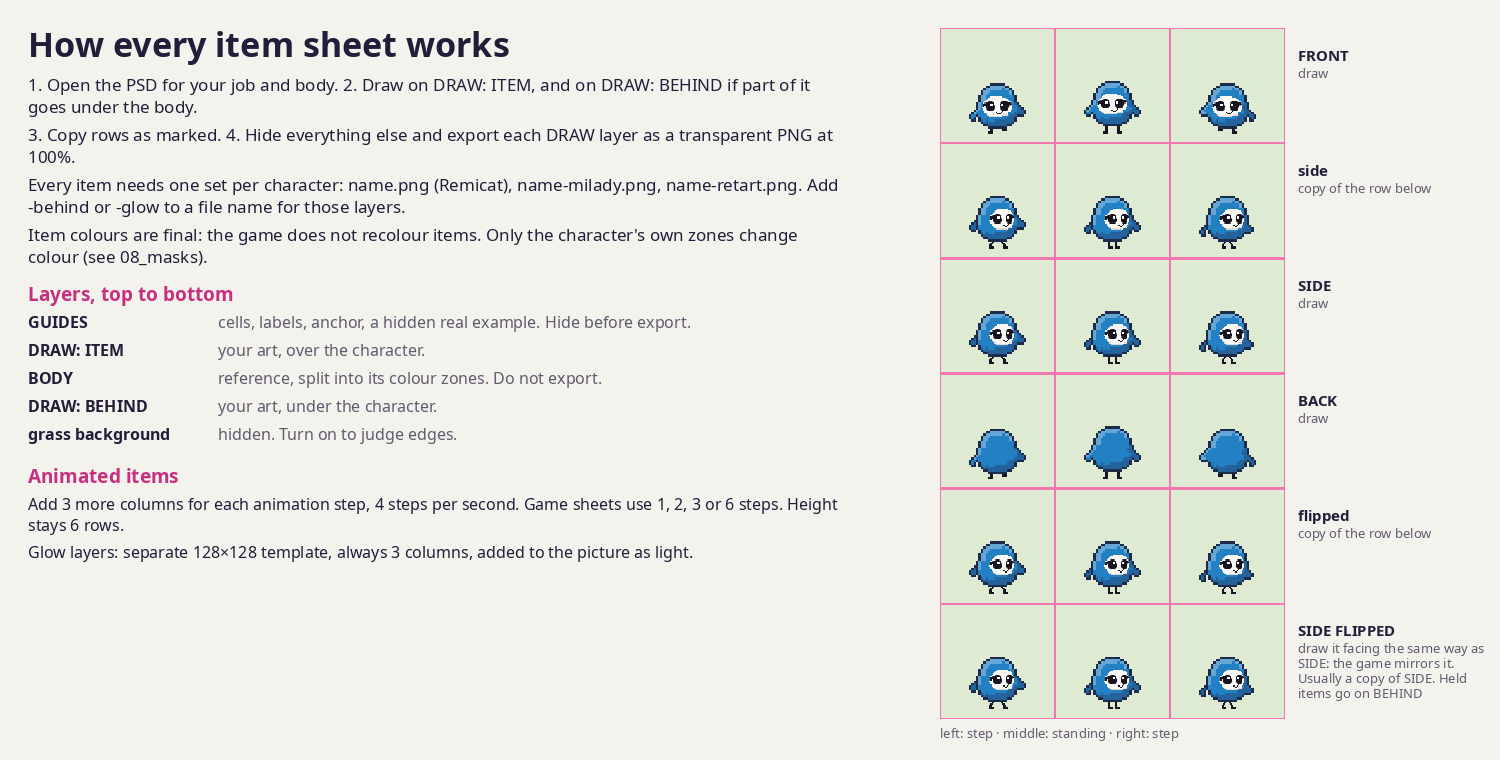
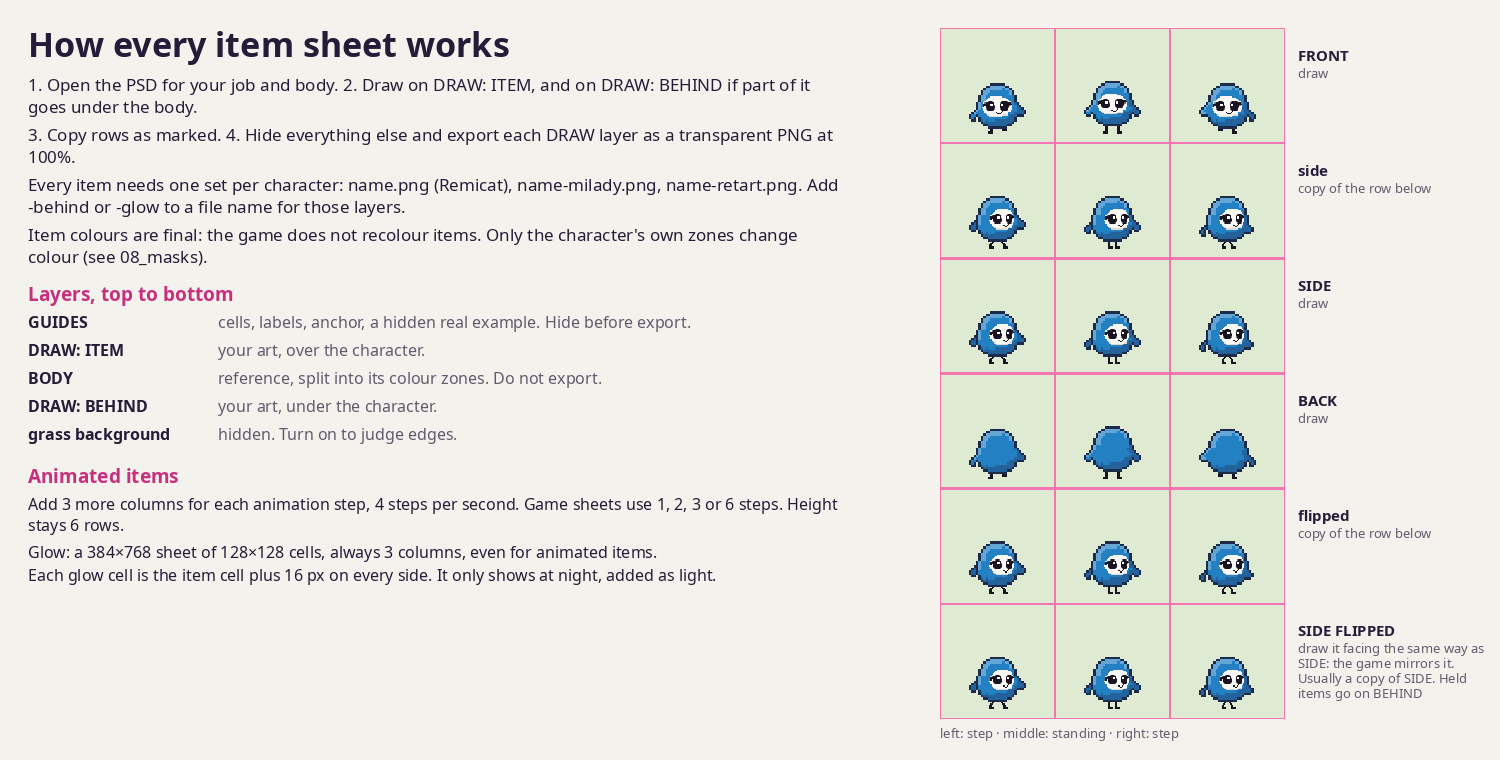
Artist guide: exact sizes, rows, anchor and submit steps
START_HERE.md now says what each row and column is (rows 1 and 4 are
never read, row 5 is drawn facing right and mirrored), where the body
and anchor sit in a 96 and a 128 cell, how glow behaves, how missing
character versions fall back, the vehicle, trail and toy frame sizes,
a check list, common mistakes and how to send art.

Guide 01: the glow line now gives the sheet size, the 16 px border and
that glow only shows at night. Guide 06: costumes do not switch off the
player's colours; they go in the shirt slot and a hat sits on top.

Changed region(s): [[0.0307, 0.6961, 0.46, 0.7868]]

diff --git a/artist-templates/START_HERE.md b/artist-templates/START_HERE.md
@@ -1,50 +1,122 @@
 # Layer 777: artist pack
 
-Everything here comes from the live game, dumped on 2026-11-06. Sprites are drawn at 100%, no scaling.
+Everything in this folder comes from the live game, taken on 2026-11-06. The library sheets are the exact files the game loads, and the templates line the body up exactly where the game draws it. Art is drawn at 100%: one pixel in your file is one pixel of the game world, so never scale a sheet up or down.
 
 ## What are you making?
 
 | You want to draw | Read | Open |
 |---|---|---|
-| Anything | `guides/01_how_item_sheets_work.png` | |
+| Anything (read this first) | `guides/01_how_item_sheets_work.png` | |
 | Hat or headwear | `guides/02_hat.png` | `templates/hat/` |
-| Backpack, wings, cape | `guides/03_back.png` | `templates/back/` |
-| Item held in hand | `guides/04_hold.png` | `templates/hold/` |
+| Backpack, wings, cape, tail | `guides/03_back.png` | `templates/back/` |
+| Item held in the hand | `guides/04_hold.png` | `templates/hold/` |
 | Clothes with drawn details | `guides/05_clothes.png` | `templates/clothes/` |
 | Whole-body costume | `guides/06_costume.png` | `templates/costume/` |
 | Plain shirt, colours only | `guides/07_shirt_colours.png` | `templates/shirt-colours/` |
 | New character | `guides/08_masks.png`, `guides/09_new_character.png` | `templates/new-character/` |
 | Light effect on an item | `guides/01_how_item_sheets_work.png` | `templates/glow/` |
-| Remicat smooth-animation clothes (optional) | `guides/10_rig.png` | `templates/rig/` |
+| Remicat smooth animation for clothes (optional) | `guides/10_rig.png` | `templates/rig/` |
 
-Each template has one layered `.psd` and one flat `.png` per character. They open in Photoshop, Krita, GIMP and Photopea. If you use another editor, put the flat PNG on a bottom layer.
+Each item folder has one layered `.psd` and one flat `.png` per character, named like `remicat-hat.psd` and `remicat-hat.png`. They open in Photoshop, Krita, GIMP and Photopea. If your editor cannot read PSDs, put the flat PNG on a bottom layer, draw above it, and hide it before you export. `templates/blank/` has empty sheets in the three sizes if you want to start from nothing.
 
-## Quick rules
+The hat, back, hold, clothes and costume PSDs hide a real game item in their GUIDES group. Turn it on to compare size and position, then turn it off again.
 
-1. Each item is 3 sets of art: Remicat, Milady, Retart.
-2. Sheet is 288×576: 3 columns, 6 rows of 96×96 cells.
-3. Draw only on `DRAW` layers. Hide everything else before export.
-4. Export transparent PNG at the original size, one file per `DRAW` layer that has art.
-5. Item colours are final. Only characters have masks.
+## The item sheet
+
+Every worn item is a sheet of **288×576** pixels: 3 columns and 6 rows of **96×96** cells.
+
+**Rows** are the directions:
+
+| Row | View | Used by the game |
+|---|---|---|
+| 0 | Front, facing down | yes |
+| 1 | Side | no, never read. Copy row 2 here to keep it tidy |
+| 2 | Side, facing right | yes |
+| 3 | Back, facing up | yes |
+| 4 | Side, flipped | no, never read. Copy row 5 here |
+| 5 | Side for walking left | yes |
+
+Row 5 is used when the character faces left. Draw it facing **right**, just like row 2, because the game mirrors the whole row. It exists so that a part can change layer when the character turns round. A held item, for example, is in front of the body in row 2 and behind it in row 5. If row 5 is empty, the item disappears whenever the character walks left.
+
+**Columns** are the walk: left step, standing, right step. Walking plays step, standing, step, standing. A character who stands still shows the middle column, so that one is seen the most.
+
+**Where the body sits.** In every 96×96 cell the character's 48×48 frame covers x 24 to 71 and y 40 to 87, so the feet stand on pixel row 87. The anchor, which is the point the game places on the map, is at x 48, y 73.6. The templates mark it with a small blue cross at pixel (48, 73). The body bobs a little from column to column, so follow the head and the hands as they move.
+
+**Moving items.** For an item that animates, like a propeller or a flame, put the next drawing in 3 more columns to the right. The game shows 4 drawings per second. The sheets in the game use 1, 2, 3 or 6 drawings, which makes them 288, 576, 864 or 1728 pixels wide. The height always stays 576 (6 rows). A sheet that is less than 6 rows tall is shown as one still picture, so never crop it.
+
+**Colours are final.** The game never recolours an item. Only the character's own body changes colour, through its masks (see `guides/08_masks.png`).
 
 ## File names
 
-Replace `name` with the item's name.
+Replace `name` with the item's name, in lower case.
 
-| File | Contents |
+| File | What it holds |
 |---|---|
-| `name.png` | Remicat, over the body |
-| `name-milady.png` | Milady, over the body |
-| `name-retart.png` | Retart, over the body |
-| `name-behind.png`, `name-milady-behind.png`, `name-retart-behind.png` | Under the body |
+| `name.png` | Remicat, drawn over the body |
+| `name-milady.png` | Milady, drawn over the body |
+| `name-retart.png` | Retart, drawn over the body |
+| `name-behind.png`, `name-milady-behind.png`, `name-retart-behind.png` | The parts under the body |
 | `name-glow.png`, `name-milady-glow.png`, `name-retart-glow.png` | Light layer, 384×768 |
+
+Only send the files that have art in them. If `name-milady.png` or `name-retart.png` is missing, the game puts the Remicat drawing on that character instead, and it will not fit their head or hands. So please make all three.
+
+## Each kind of item
+
+**Hats** go on `name.png` and sit over the body and hair. The highest pixel in the front left-step cell (row 0, column 0) also decides how far up the player's name floats, so a tall hat pushes the name up.
+
+**Back items** put the front view, and usually the side views, on `name-behind.png`, because from the front they are behind the body. The back view (row 3) goes on `name.png`. Wings and capes may fill the whole 96×96 cell.
+
+**Held items** put rows 0 to 2 on `name.png` and rows 3 to 5 on `name-behind.png`, since from the back and when walking left the item is behind the body. Put the grip at the hand: the hands sit in different places on each character, so check all three templates. The game sometimes mirrors a held item into the other hand, so avoid letters or anything that must not be read backwards.
+
+**Clothes with art** only draw what plain colours cannot do: skirts, collars, sleeves, trim. The torso colour comes from the item's 3 shirt colours, filled into the body's shirt area by the game.
+
+**Costumes** are clothes that cover the whole body. They go in the shirt slot and are marked `cover: 1` in the catalog. The body is still drawn underneath in the player's own colours, so anything you leave open, like the face window of the pumpkin, shows the player through it. A hat is drawn on top of the costume.
+
+**Plain shirts** need no drawing at all. Send 3 hex colours: light, mid and shade. A shirt that changes colour over time is a list of these sets that the game steps through. Stripes and a heart are the only print shapes. A new print shape needs a new mask layer for every character and a code change, so ask first.
+
+**Glow** is a separate sheet of **384×768**: 3 columns and 6 rows of **128×128** cells. Each glow cell is the 96×96 item cell with 16 pixels added on every side, so the anchor sits at x 64, y 89.6 and the body covers x 40 to 87, y 56 to 103. Glow always has 3 columns, even for a moving item. It is only drawn at night, added on top of the picture as light, and it pulses gently. Paint it in the colour of the light you want; black adds nothing.
+
+**Remicat smooth animation** is optional and only for clothes with art. It is one more sheet of **1024×192**: 16 columns and 3 rows of 64×64 cells, 47 of them used (the last cell stays empty). `templates/rig/shirt-cells.csv` says which pose each cell is. Cells 0, 4 and 8 are the middle column of rows 0, 2 and 3 of your normal sheet, cut out from x 16, y 28. Without this sheet the clothes still work, and a Remicat wearing them simply uses the normal animation. On the smooth animation, hats, back items and held items use only their standing column and are moved along with the body.
+
+## Other sprites
+
+These use the same art for every character unless the file name says otherwise.
+
+- **Vehicles**: frames of 96×112, 16 in a row (1536 wide). Each frame turns the vehicle a further 22.5 degrees clockwise, starting from lying left to right. Extra rows are extra steps of the wheels turning. The anchor is at x 48, y 73.6, the same point as in an item cell.
+- **Trails**: frames of 24×24. How many rows and columns a trail has depends on the trail. `name-night.png` is the same trail for the night.
+- **Toys**: the glove, hammer and sparring gloves are normal 288×576 item sheets, with a `-milady` version. The pogo stick is one 96×112 picture and the rope is 12 frames of 96×96 in a row.
+
+## New characters
+
+A character is two files. The base sheet is **144×192**: 3 columns and 4 rows of 48×48 frames. Row 0 is the front, rows 1 and 2 are the side facing right (both the same), and row 3 is the back. The columns are left step, standing, right step. The mask sheet is **144×1728**: 9 copies of the base sheet stacked on top of each other, one per colour zone. Layer 0 is the outline, 1 to 3 are the fur or hair, 4 to 6 the shirt, and 7 and 8 are the stripes and heart prints. Mask pixels must be fully on or fully off; their colour does not matter, only the shape. The feet end on the bottom pixel row of each 48×48 frame and the anchor is at x 24, y 33.6.
+
+Start from `templates/new-character/new-character.psd`. The `example-*.psd` files are the three real characters split into layers, and `game-base-*.png` and `game-mask-*.png` are their final game files. A new character also needs its own version of every item and a small code change, so talk to the developer before you draw a whole set.
+
+## Check before you send
+
+1. The file is exactly the right size: 288×576 (or wider for a moving item), 384×768 for glow.
+2. The background is transparent and the GUIDES, BODY and grass layers are hidden.
+3. You exported one PNG per DRAW layer that has art, named as in the table above.
+4. Row 5 faces right like row 2, and rows 0, 2, 3 and 5 all have art.
+5. There are Remicat, Milady and Retart versions, and they all sit right on their bodies.
+6. Your item looks right next to a similar item in `library/`.
+
+## Common mistakes
+
+- Cropping or resizing the export. The game reads the sheet by cell, so every cell must stay in place.
+- Drawing row 5 already mirrored. The game mirrors it, so it ends up facing the wrong way.
+- Leaving the part that goes under the body on the main file, so it covers the character's face or arms.
+- Exporting with the body still visible, which bakes a second body into the item.
+- Painting the torso colour into clothes. Leave it out and give the 3 shirt colours instead.
+- Drawing glow into the main sheet. Light goes only in the `-glow` file.
+
+## How to send your art
+
+Put your files in a folder named after the item at the top of this repository, like the `retart/` and `trashcan/` folders, and open a pull request. In the description, say what kind of item it is (hat, back, held, clothes, costume, shirt or something else), list the shirt colours if it has any, and say if the item moves.
 
 ## Reference
 
-- `library/catalog_*.png`: every game item on all 3 characters, by type.
+- `library/catalog_*.png`: every item in the game on all 3 characters, by type.
 - `library/<type>/<item>/`: the original sheets. Open any of them to see how it was made.
-- `library/trails`, `vehicles`, `toys`: other sprites, same across characters unless the file name says otherwise. Vehicles use 96×112 frames, most trails 24×24.
-- `templates/new-character/example-*.psd`: the 3 real characters, split into layers.
-- `templates/new-character/game-mask-*.png`, `game-base-*.png`: their final game files.
-
-Each PSD has a hidden real example in its GUIDES group. Turn it on to compare size and position.
+- `library/clothes-rig/`: the smooth-animation sheets of the clothes that have one.
+- `library/trails`, `library/vehicles`, `library/toys`: the other sprites described above.
